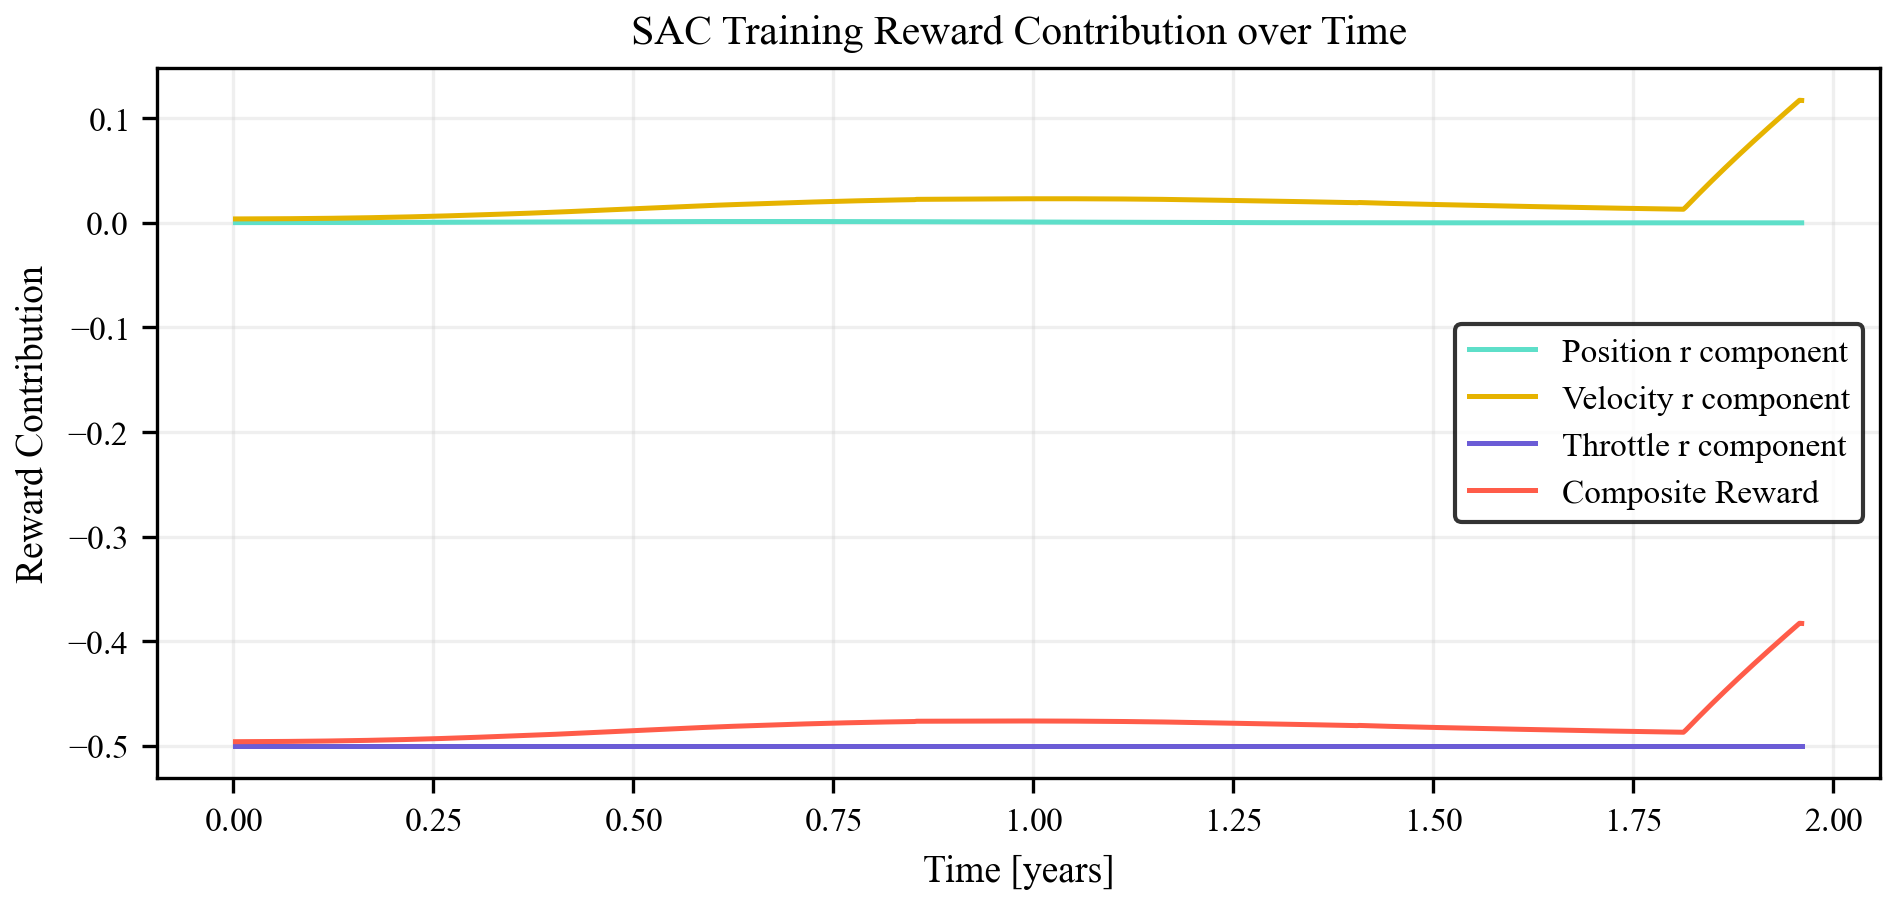
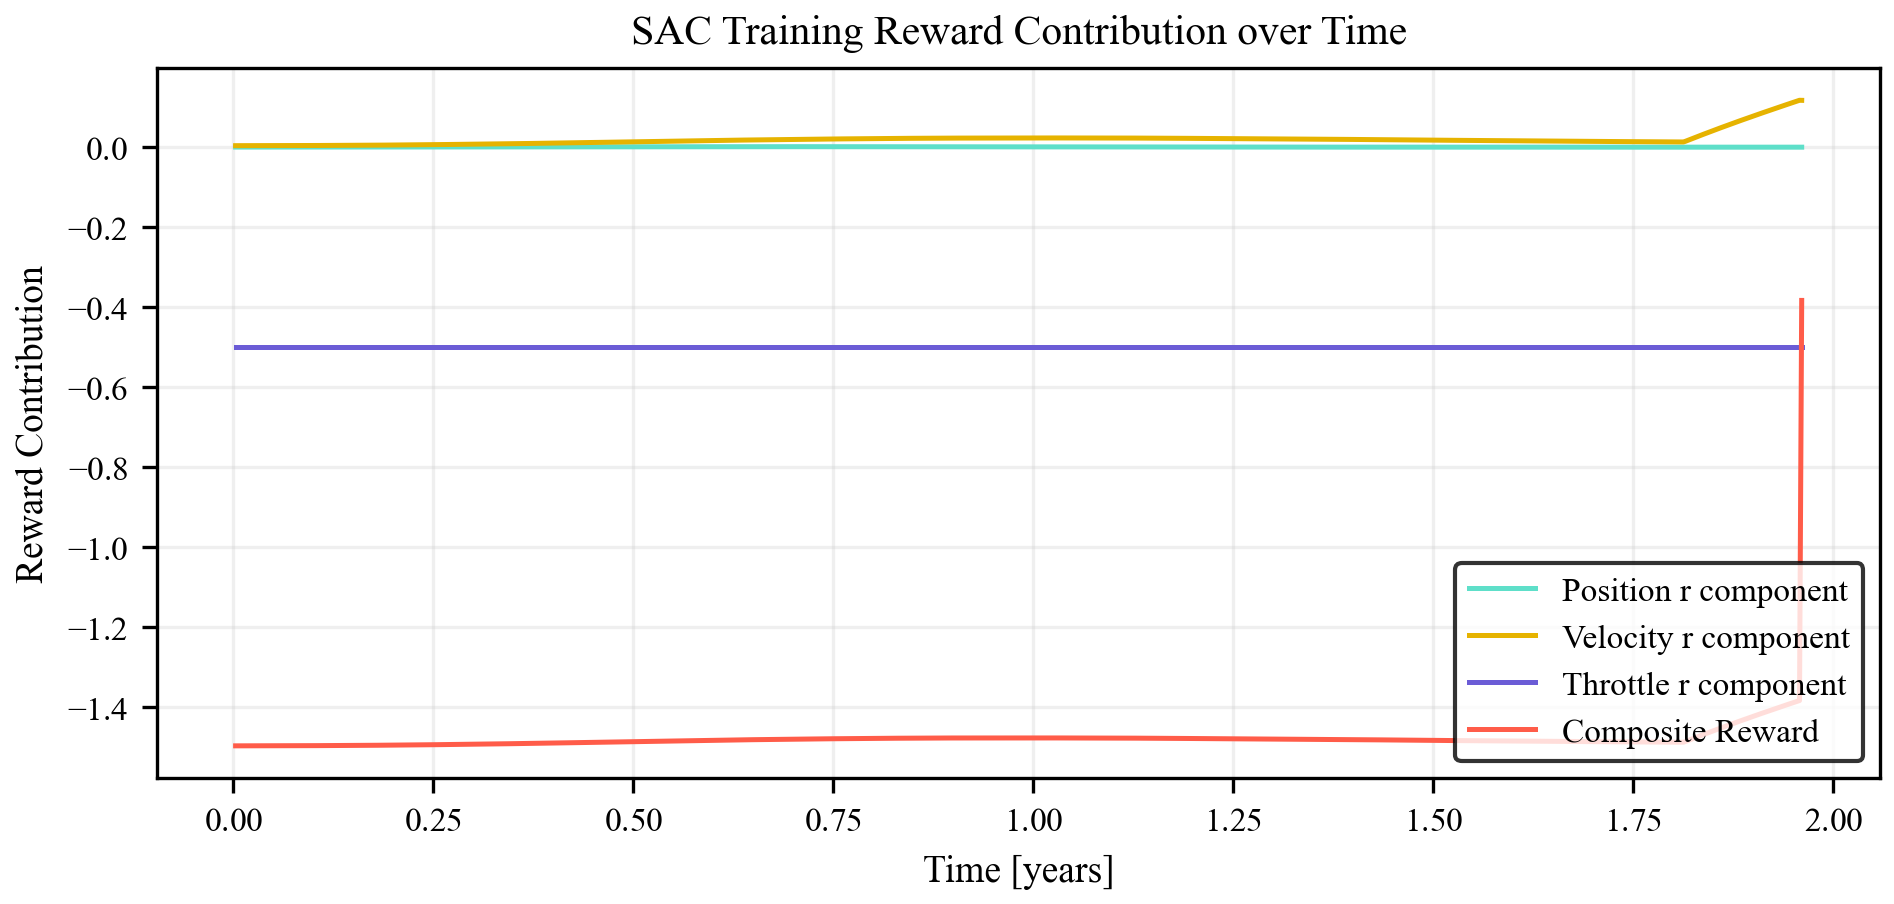
updated polar env test data

diff --git a/tests/test_TBR_polar_env.py b/tests/test_TBR_polar_env.py
@@ -209,3 +209,5 @@ def test_TBR_polar_env(flag_report_live: bool = False):
 
     return flag_test_pass
 
+if __name__ == "__main__":
+    test_TBR_polar_env(flag_report_live=True)